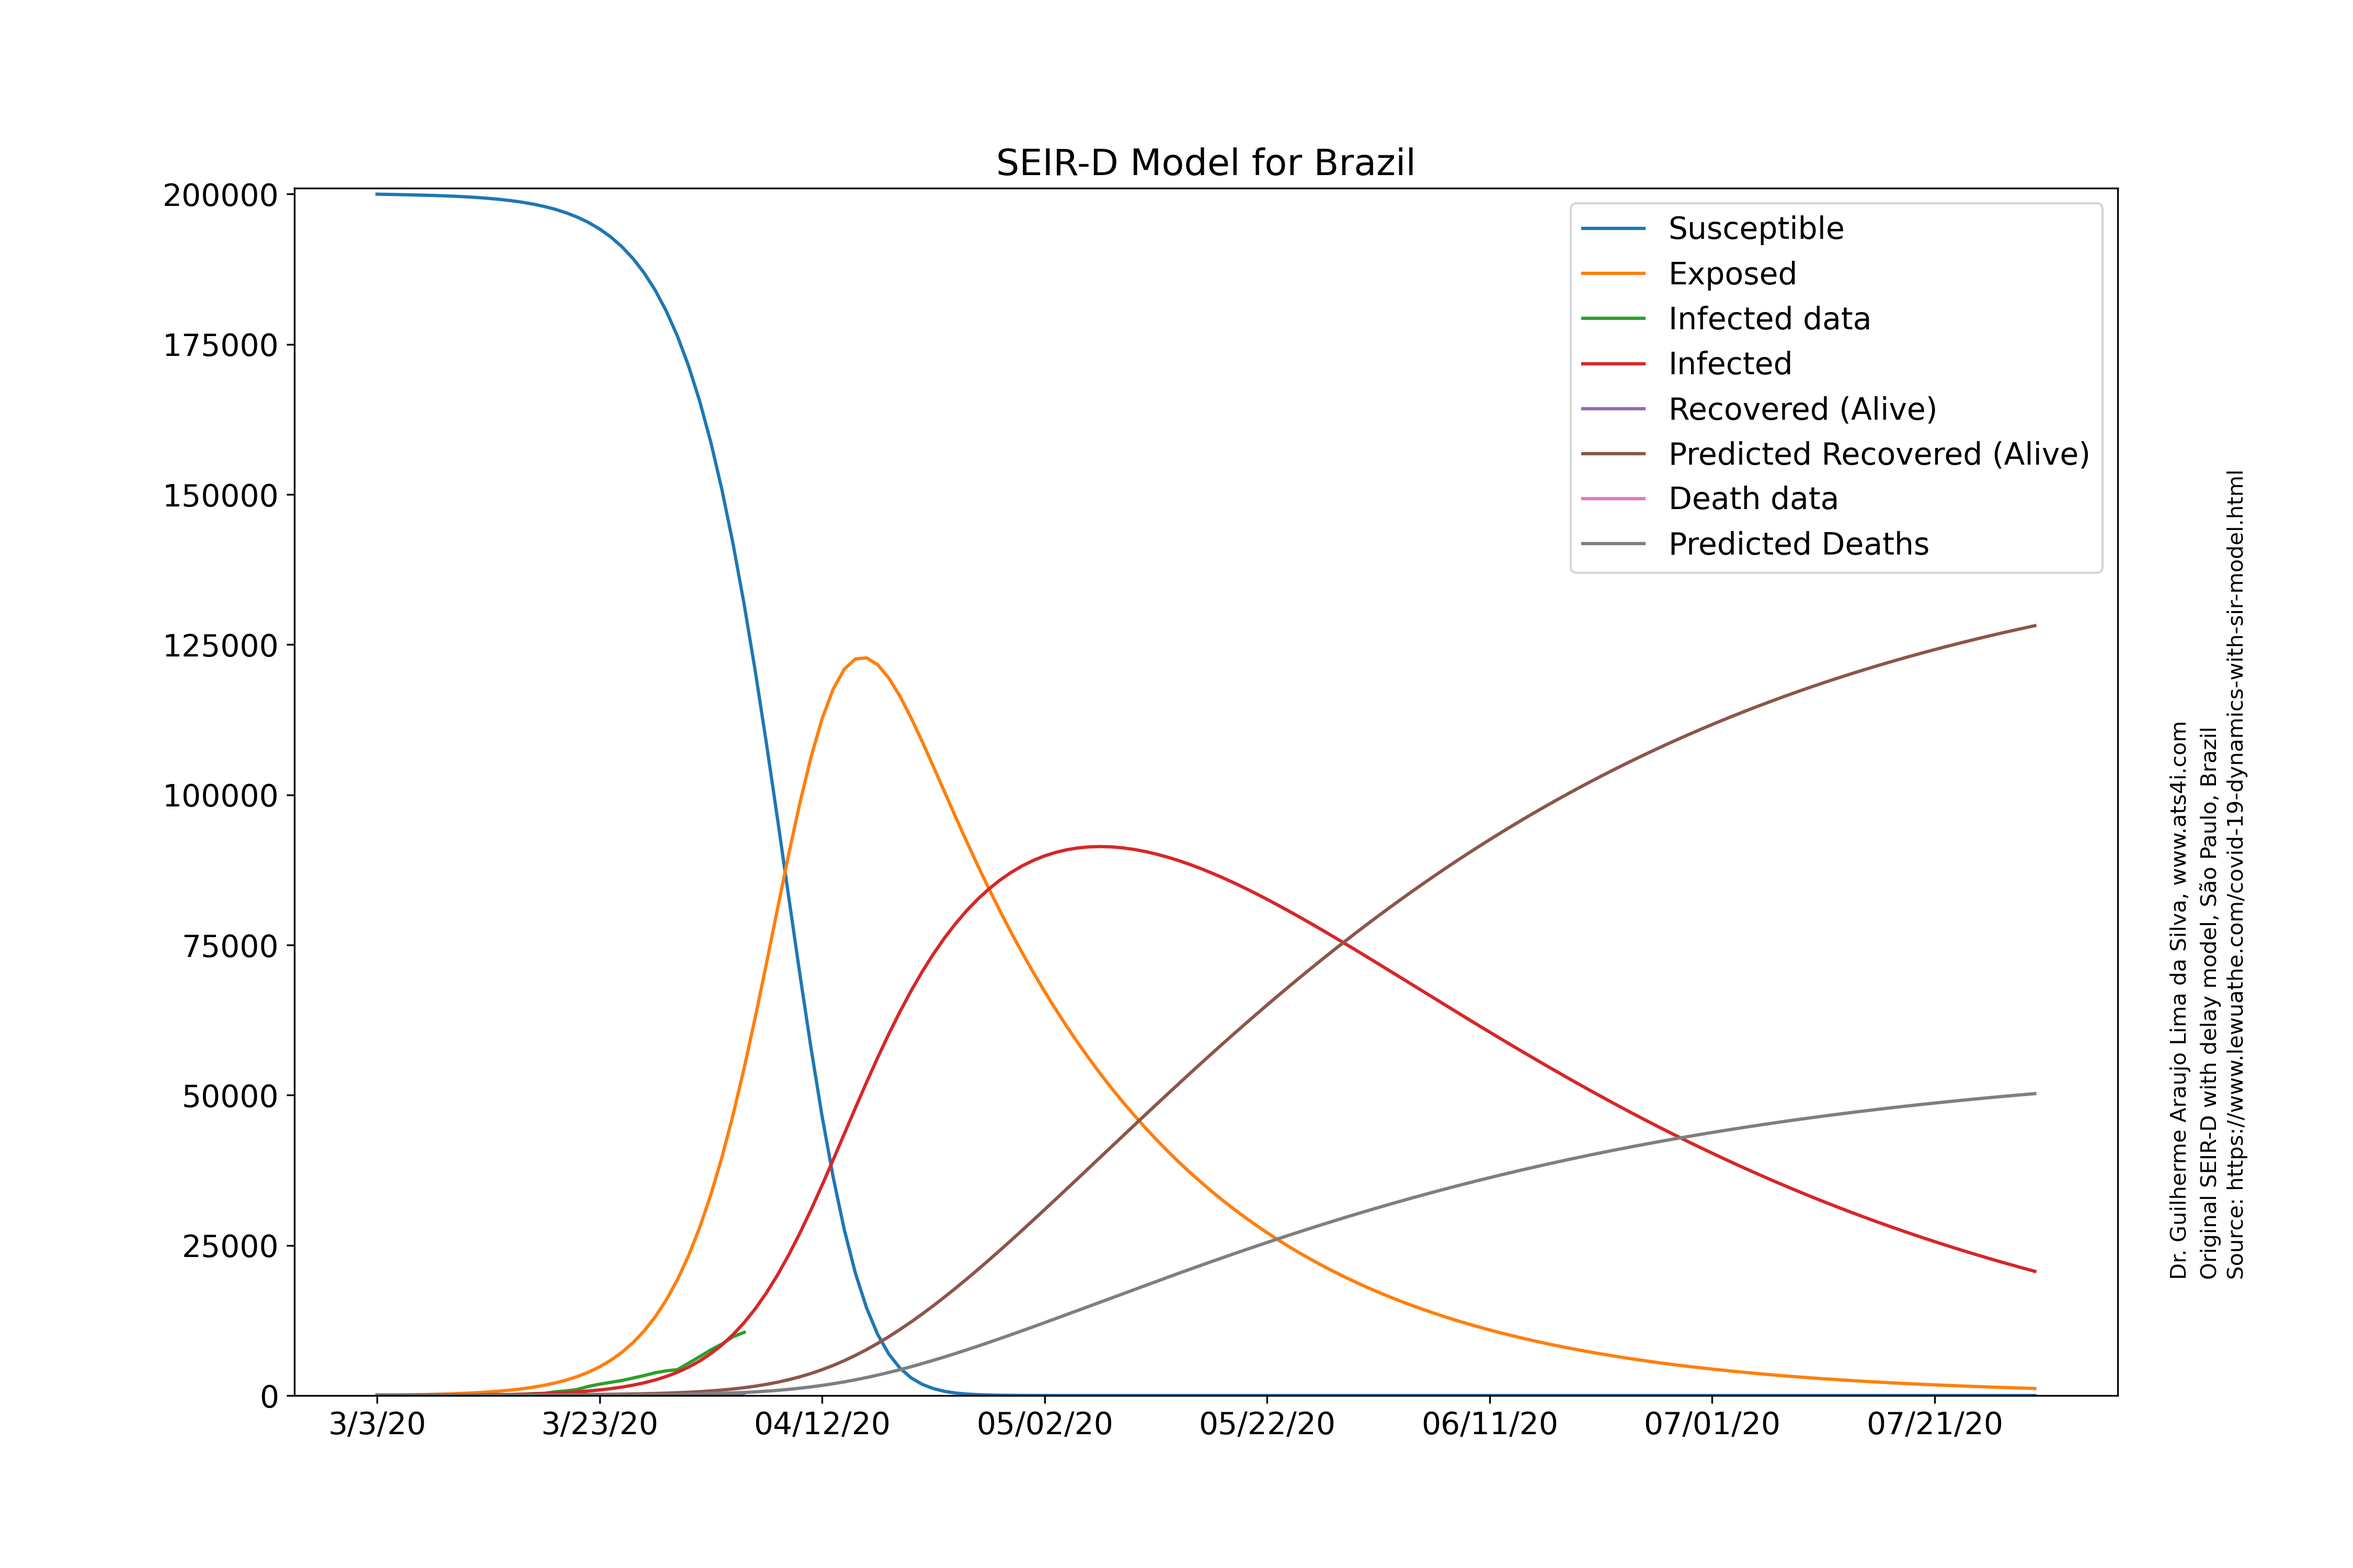
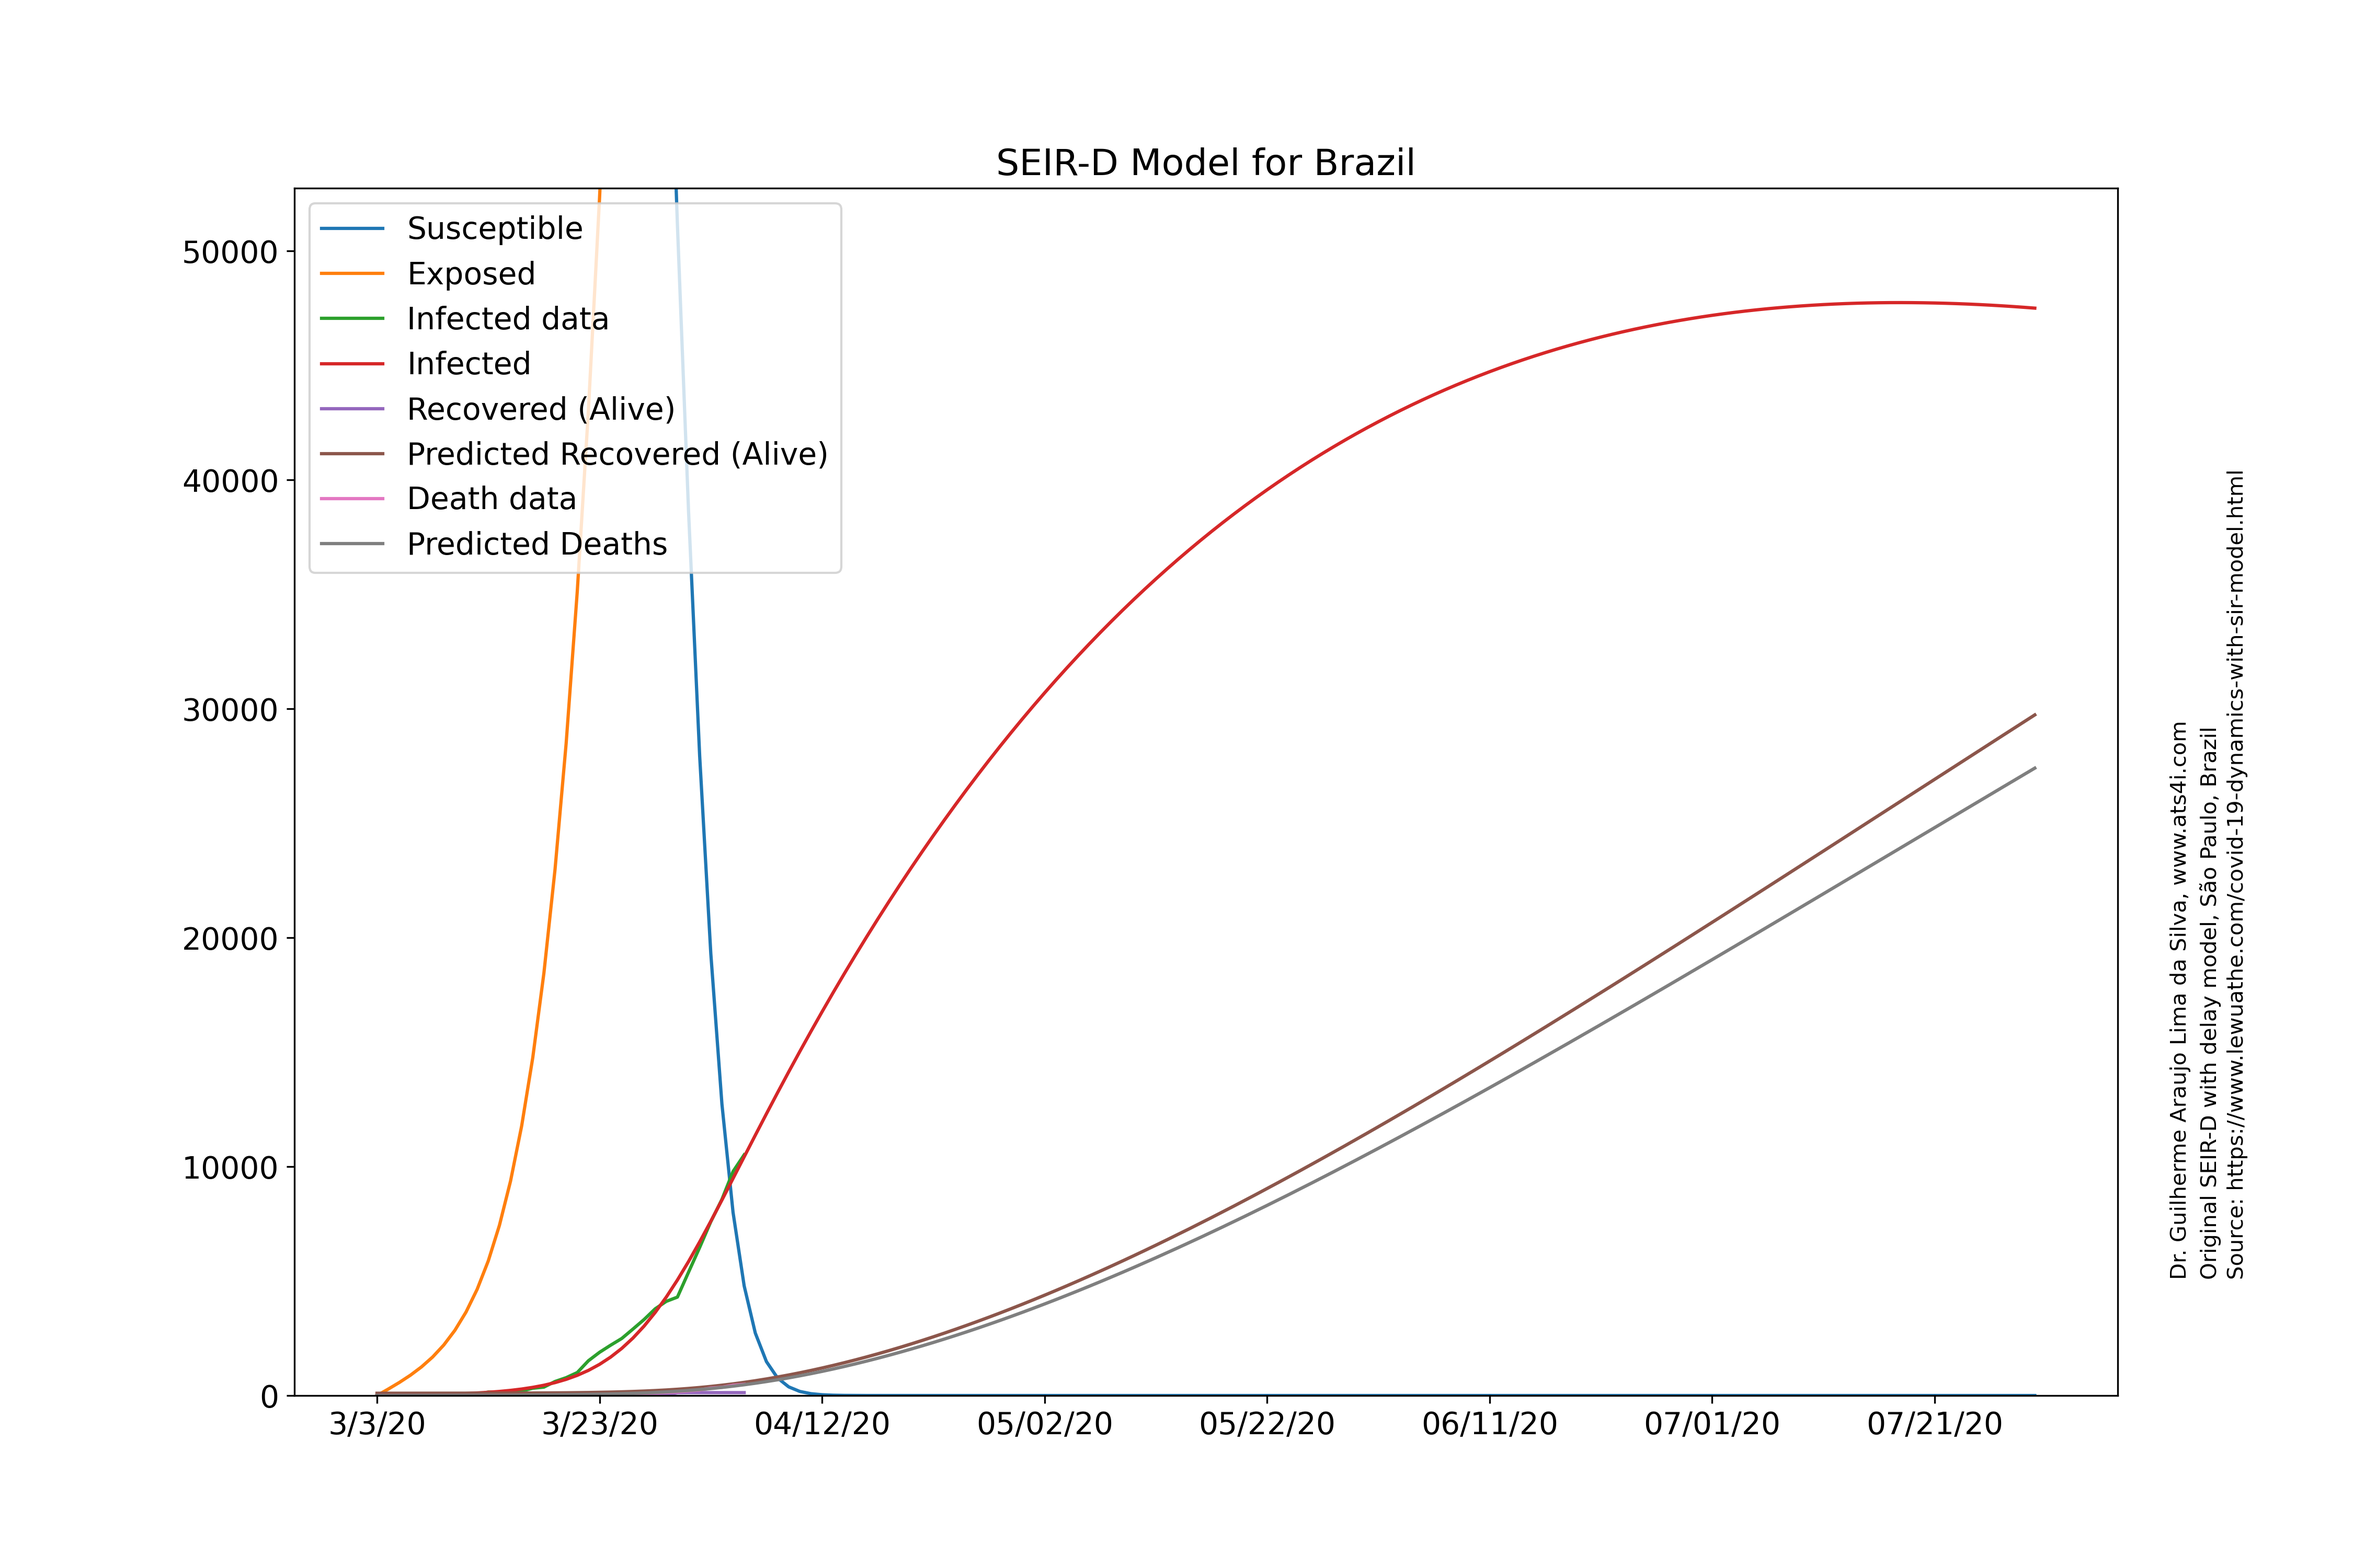
include sigma and sigma2 in optimization

diff --git a/dataFit_SEIRD.py b/dataFit_SEIRD.py
@@ -250,7 +250,7 @@ class Learner(object):
         return values
 
     #predict final extended values
-    def predict(self, beta, sigma, gamma, b, data, recovered, death, healed, country, s_0, e_0, i_0, r_0, d_0):
+    def predict(self, beta, sigma, sigma2, gamma, b, data, recovered, death, healed, country, s_0, e_0, i_0, r_0, d_0):
         new_index = self.extend_index(data.index, self.predict_range)
         size = len(new_index)
         def SEIRD(y,t):
@@ -259,8 +259,8 @@ class Learner(object):
             I = y[2]
             R = y[3]
             D = y[4]
-            sigma=1/22.0
-            sigma2=1/55.0
+            # sigma=1/22.0
+            # sigma2=1/55.0
             y1=-beta*I*S
             y2=beta*S*I-(sigma)*E
             y3=sigma*E-(gamma)*I-sigma2*I
@@ -285,16 +285,16 @@ class Learner(object):
         self.data = self.load_confirmed(self.country) - self.recovered
 
         optimal = minimize(lossOdeint,        
-            [0.001, 0.001, 0.001, 0.001],
+            [0.001, 0.001, 0.001, 0.001, 0.001],
             args=(self.data, self.recovered, self.death, self.s_0, self.e_0, self.i_0, self.r_0, self.d_0),
             method='L-BFGS-B',
-            bounds=[(1e-12, 5), (1e-12,0.2), (1e-12, 0.6), (1e-12, 0.6)])
+            bounds=[(1e-12, 5), (1e-12,0.2),  (1e-12,0.2), (1e-12, 0.6), (1e-12, 0.6)])
             #beta, sigma, gamma
 
         print(optimal)
-        beta, sigma, gamma, b = optimal.x
+        beta, sigma, sigma2, gamma, b = optimal.x
         new_index, extended_actual, extended_recovered, extended_death, y0, y1, y2, y3, y4, \
-                extended_healed, a, b = self.predict(beta, sigma, gamma, b, self.data, self.recovered, \
+                extended_healed, a, b = self.predict(beta, sigma, sigma2, gamma, b, self.data, self.recovered, \
                 self.death, self.healed, self.country, self.s_0, self.e_0, self.i_0, self.r_0, self.d_0)
 
         df = pd.DataFrame({
@@ -312,9 +312,9 @@ class Learner(object):
         plt.rc('font', size=14)
         fig, ax = plt.subplots(figsize=(15, 10))
         ax.set_title("SEIR-D Model for "+self.country)
-        ax.set_ylim((0, max(y0+1e3)))
+        ax.set_ylim((0, max(y2+5e3)))
         df.plot(ax=ax)
-        print(f"country={self.country}, beta={beta:.8f}, sigma={sigma:.8f},gamma={gamma:.8f}, b={b:.8f}, r_0:{(beta/gamma):.8f}")
+        print(f"country={self.country}, beta={beta:.8f}, 1/sigma={1/sigma:.8f}, 1/sigma2={1/sigma2:.8f},gamma={gamma:.8f}, b={b:.8f}, r_0:{(beta/gamma):.8f}")
         
         plt.annotate('Dr. Guilherme Araujo Lima da Silva, www.ats4i.com', fontsize=10, 
         xy=(1.04, 0.1), xycoords='axes fraction',
@@ -336,15 +336,15 @@ class Learner(object):
 #objective function Odeint solver
 def lossOdeint(point, data, recovered, death, s_0, e_0, i_0, r_0, d_0):
     size = len(data)
-    beta, sigma, gamma, b = point
+    beta, sigma, sigma2, gamma, b = point
     def SEIRD(y,t):
         S = y[0]
         E = y[1]
         I = y[2]
         R = y[3]
         D = y[4]
-        sigma=1/22.0
-        sigma2=1/55.0
+        # sigma=1/22.0
+        # sigma2=1/55.0
         y1=-beta*I*S
         y2=beta*S*I-(sigma)*E
         y3=sigma*E-(gamma)*I-sigma2*I
